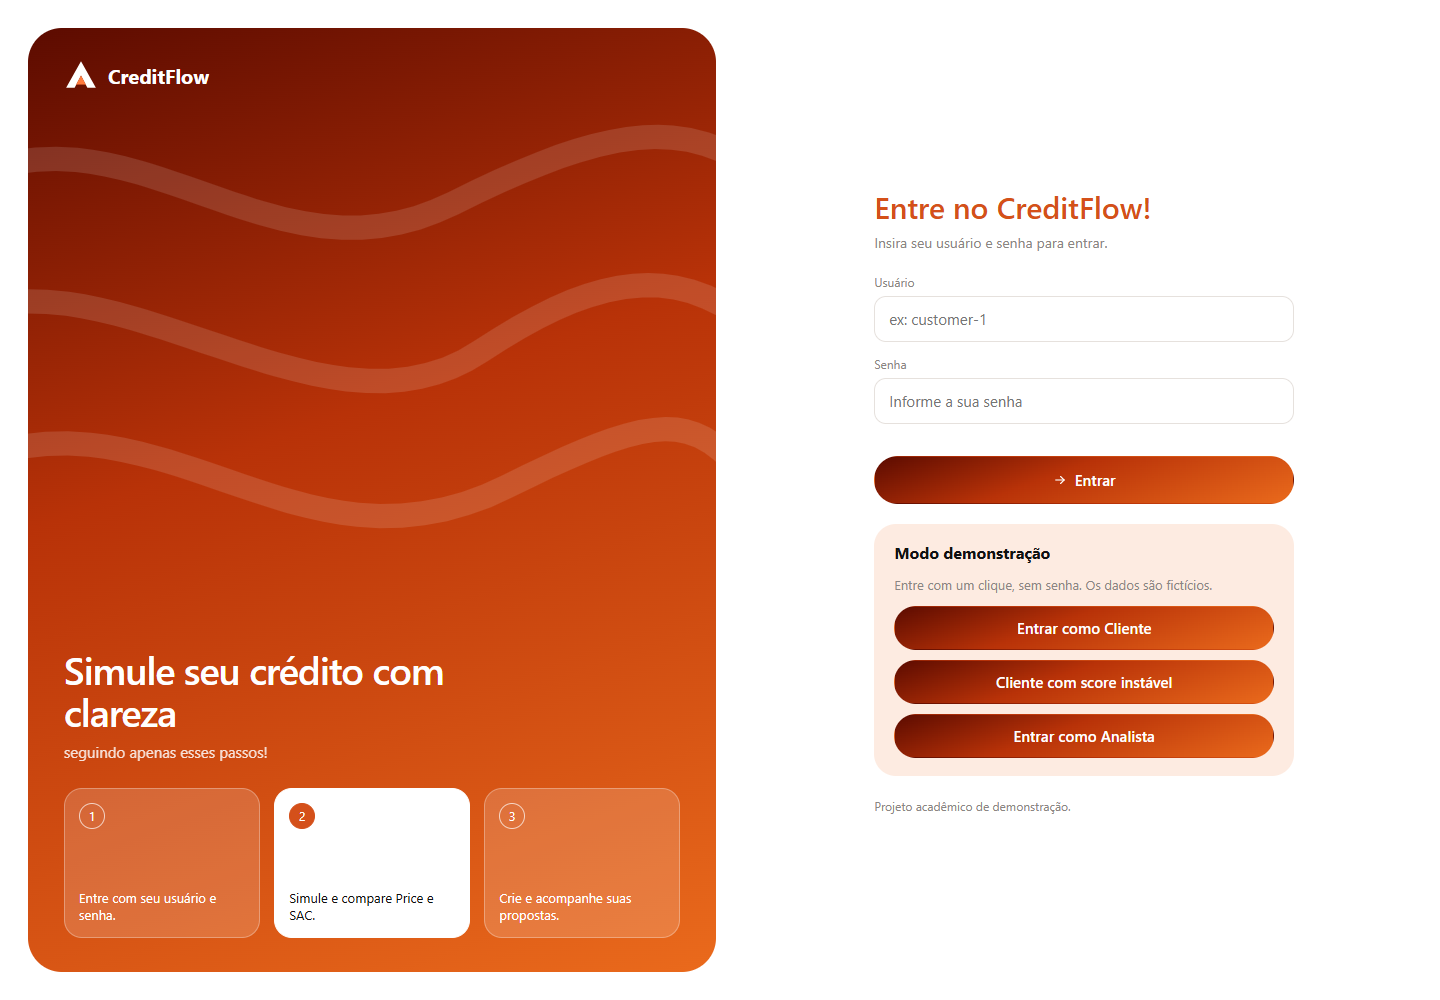
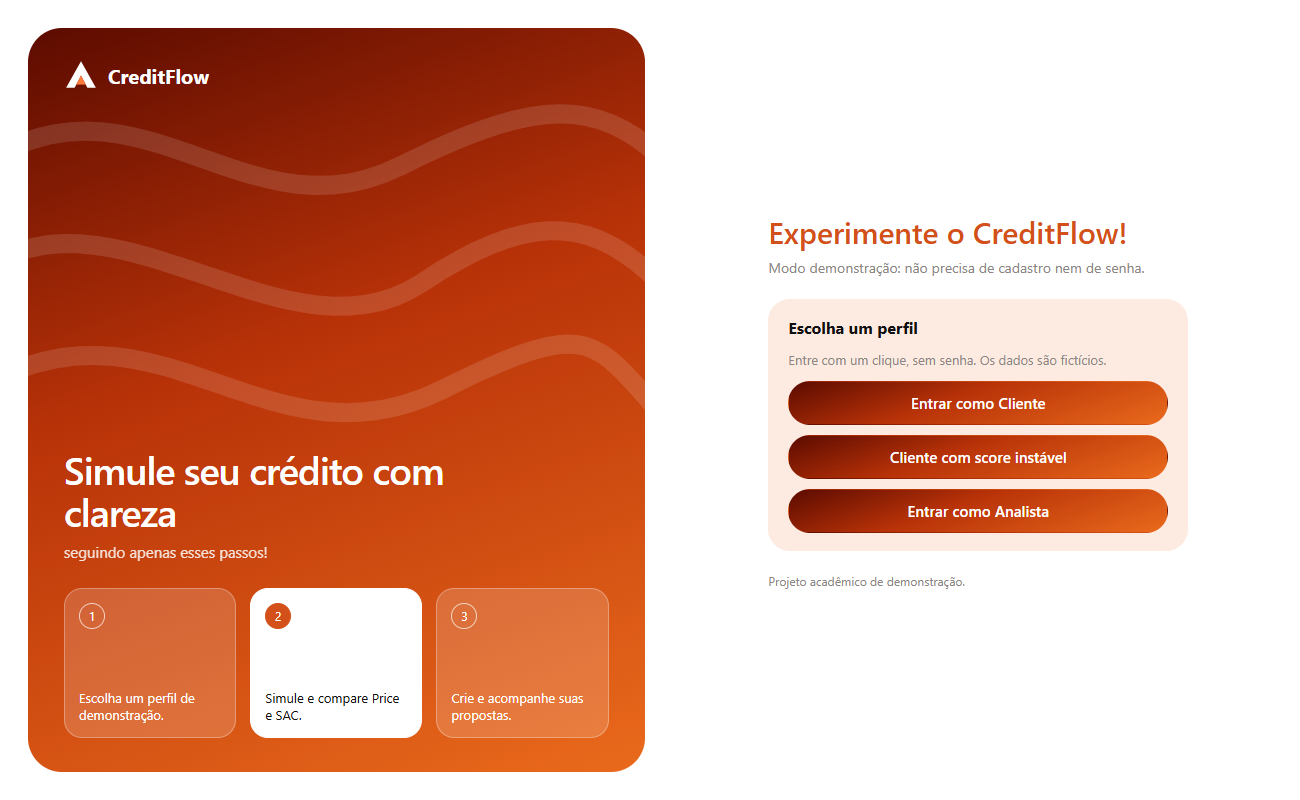
UI: login shows only profile buttons in demo mode (no sign-up or password form)

diff --git a/src/main/resources/static/assets/app.js b/src/main/resources/static/assets/app.js
@@ -98,19 +98,22 @@ async function signIn(user, pass) {
   }
 }
 
-function demoCard() {
+function demoCard(done) {
   const box = h('section', { class: 'demo-card', hidden: true });
   fetch('/api/demo', { credentials: 'omit' }).then(r => (r.ok ? r.json() : null)).then(info => {
-    if (!info || !info.enabled) return;
-    state.demo = true;
-    box.hidden = false;
-    box.append(h('h2', { text: 'Modo demonstração' }),
-      h('p', { class: 'label', text: 'Entre com um clique, sem senha. Os dados são fictícios.' }),
-      h('div', { class: 'demo-buttons' }, info.accounts.map(a => h('button', {
-        class: 'btn lime', type: 'button', text: a.label,
-        onclick: () => signIn(a.username, a.password)
-      }))));
-  }).catch(() => {});
+    const on = Boolean(info && info.enabled);
+    if (on) {
+      state.demo = true;
+      box.hidden = false;
+      box.append(h('h2', { text: 'Escolha um perfil' }),
+        h('p', { class: 'label', text: 'Entre com um clique, sem senha. Os dados são fictícios.' }),
+        h('div', { class: 'demo-buttons' }, info.accounts.map(a => h('button', {
+          class: 'btn lime', type: 'button', text: a.label,
+          onclick: () => signIn(a.username, a.password)
+        }))));
+    }
+    done(on);
+  }).catch(() => done(false));
   return box;
 }
 
@@ -119,7 +122,7 @@ function loginView() {
   const user = h('input', { id: 'user', autocomplete: 'username', placeholder: 'ex: customer-1', required: true });
   const pass = h('input', { id: 'pass', type: 'password', autocomplete: 'current-password', placeholder: 'Informe a sua senha', required: true });
   const form = h('form', {
-    class: 'signform',
+    class: 'signform', hidden: true,
     onsubmit: async ev => {
       ev.preventDefault();
       err.textContent = '';
@@ -150,12 +153,21 @@ function loginView() {
     cards.forEach((el, k) => el.classList.toggle('hi', k === idx));
   }, 2600);
 
+  const title = h('h1', { text: 'Entre no CreditFlow!' });
+  const sub = h('p', { class: 'sub', text: '' });
+  const card = demoCard(demo => {
+    if (demo) {
+      title.textContent = 'Experimente o CreditFlow!';
+      sub.textContent = 'Modo demonstração: não precisa de cadastro nem de senha.';
+      cards[0].lastChild.textContent = 'Escolha um perfil de demonstração.';
+    } else {
+      sub.textContent = 'Insira seu usuário e senha para entrar.';
+      form.hidden = false;
+    }
+  });
   return h('main', { class: 'loginsplit' }, splash,
     h('section', { class: 'signin' }, h('div', { class: 'signin-box' },
-      h('h1', { text: 'Entre no CreditFlow!' }),
-      h('p', { class: 'sub', text: 'Insira seu usuário e senha para entrar.' }),
-      form,
-      demoCard(),
+      title, sub, form, card,
       h('p', { class: 'fine', text: 'Projeto acadêmico de demonstração.' }))));
 }
 
